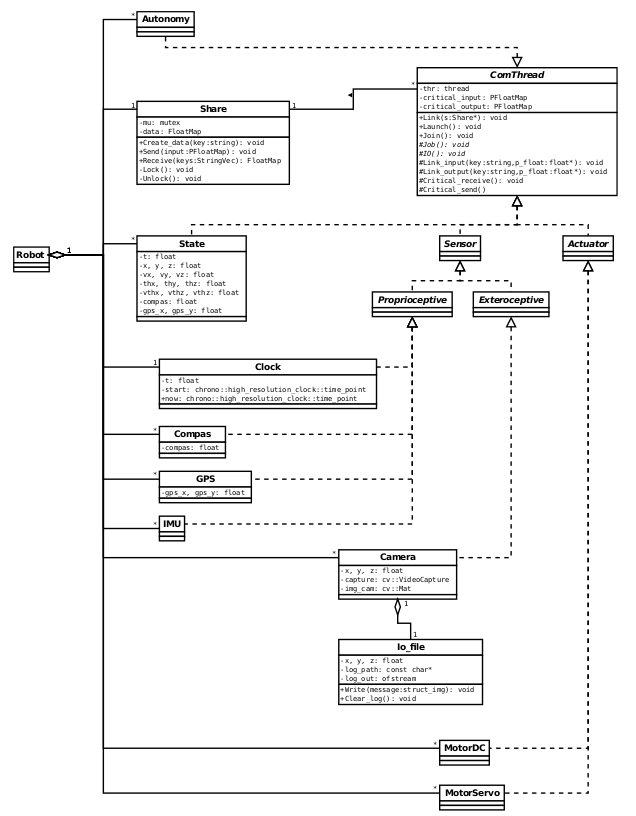
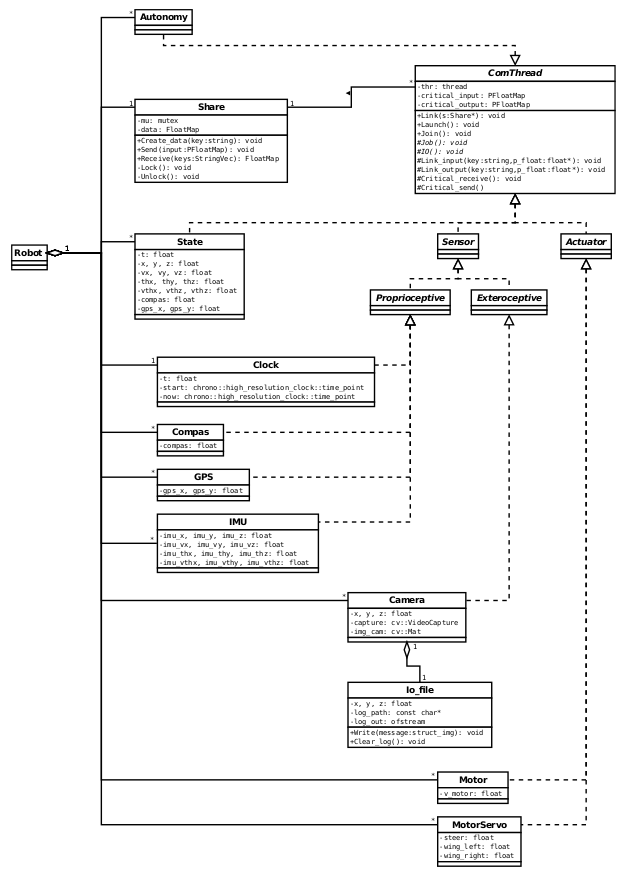
Added IMU, motor and servo

Changed region(s): [[0.0, 0.0, 1.0, 1.0]]

diff --git a/src/Imu.cpp b/src/Imu.cpp
@@ -3,11 +3,22 @@
 using namespace std;
 
 Imu::Imu() : Proprioceptive(){
+	imu_x = 0.;		imu_y = 0.;		imu_z = 0.;
+	imu_vx = 0.;	imu_vy = 0.;	imu_vz = 0.;
+	imu_thx = 0.;	imu_thy = 0.;	imu_thz = 0.;
+	imu_vthx = 0.;	imu_vthy = 0.;	imu_vthz = 0.;
+}
 
+void Imu::IO(){
+	Link_output("imu_x", &imu_x);		Link_output("imu_y", &imu_y);		Link_output("imu_z", &imu_z);
+	Link_output("imu_vx", &imu_vx);		Link_output("imu_vy", &imu_vy);		Link_output("imu_vz", &imu_vz);
+	Link_output("imu_thx", &imu_thx);	Link_output("imu_thy", &imu_thy);	Link_output("imu_thz", &imu_thz);
+	Link_output("imu_vthx", &imu_vthx);	Link_output("imu_vthy", &imu_vthy);	Link_output("imu_vthz", &imu_vthz);	
 }
 
 void Imu::Job(){
-	for(int i = 0; i < 42; i++){
+	while(true){
 		usleep(100000);
+		Critical_send();
 	}
 }

diff --git a/src/State.cpp b/src/State.cpp
@@ -14,6 +14,12 @@ void State::IO(){
 	Link_output("vx", &vx);		Link_output("vy", &vy);		Link_output("vz", &vz);
 	Link_output("thx", &thx);	Link_output("thy", &thy);	Link_output("thz", &thz);
 	Link_output("vthx", &vthx);	Link_output("vthy", &vthy);	Link_output("vthz", &vthz);
+
+	Link_input("imu_x", &imu_x);		Link_input("imu_y", &imu_y);		Link_input("imu_z", &imu_z);
+	Link_input("imu_vx", &imu_vx);		Link_input("imu_vy", &imu_vy);		Link_input("imu_vz", &imu_vz);
+	Link_input("imu_thx", &imu_thx);	Link_input("imu_thy", &imu_thy);	Link_input("imu_thz", &imu_thz);
+	Link_input("imu_vthx", &imu_vthx);	Link_input("imu_vthy", &imu_vthy);	Link_input("imu_vthz", &imu_vthz);	
+
 	Link_input("t", &t);
 	Link_input("compas", &compas);
 	Link_input("gps_x", &gps_x);

diff --git a/src/Robot.cpp b/src/Robot.cpp
@@ -9,18 +9,18 @@ Robot::Robot(){
 	clock.Link(&share);
 	compas.Link(&share);
 	gps.Link(&share);
-//	imu.Link(&share);
-//	motor.Link(&share);
-//	servo.Link(&share);
+	imu.Link(&share);
+	motor.Link(&share);
+	servo.Link(&share);
 
 	state.Launch();
 	camera.Launch();
 	clock.Launch();
 	compas.Launch();
 	gps.Launch();
-//	imu.Launch();
-//	motor.Launch();
-//	servo.Launch();
+	imu.Launch();
+	motor.Launch();
+	servo.Launch();
 
 	usleep(5000000);
 
@@ -29,7 +29,7 @@ Robot::Robot(){
 	clock.Join();
 	compas.Join();
 	gps.Join();
-//	imu.Join();
-//	motor.Join();
-//	servo.Join();
+	imu.Join();
+	motor.Join();
+	servo.Join();
 }

diff --git a/src/Robot.h b/src/Robot.h
@@ -16,9 +16,9 @@
 #include "Clock.h"
 #include "Compas.h"
 #include "Gps.h"
-//#include "Imu.h"
-//#include "Motor.h"
-//#include "Servo.h"
+#include "Imu.h"
+#include "Motor.h"
+#include "Servo.h"
 #include "Share.h"
 #include "State.h"
 
@@ -36,9 +36,9 @@ private:
 	Clock clock;
 	Compas compas;
 	Gps gps;
-//	Imu imu;
-//	Motor motor;
-//	Servo servo;
+	Imu imu;
+	Motor motor;
+	Servo servo;
 
 };
 

diff --git a/src/Servo.cpp b/src/Servo.cpp
@@ -3,9 +3,20 @@
 using namespace std;
 
 Servo::Servo() : Actuator(){
+	steer = 0.;
+	wing_left = 0.;
+	wing_right = 0.;
+}
 
+void Servo::IO(){
+	Link_input("steer", &steer);
+	Link_input("wing_left", &wing_left);
+	Link_input("wing_right", &wing_right);
 }
 
 void Servo::Job(){
-
+	while(true){
+		usleep(1000000);
+		Critical_receive();
+	}
 }

diff --git a/src/Imu.h b/src/Imu.h
@@ -1,6 +1,6 @@
 /*
  * @(#)		Imu.h
- * @version	1.0
+ * @version	1.3
  * @autor	C. Rouvière
  */
 
@@ -22,6 +22,12 @@ public:
 private:
 
 	void Job();
+	void IO();
+
+	float imu_x,	imu_y,		imu_z;
+	float imu_vx,	imu_vy,		imu_vz;
+	float imu_thx,	imu_thy,	imu_thz;
+	float imu_vthx,	imu_vthy,	imu_vthz;
 
 };
 

diff --git a/src/Servo.h b/src/Servo.h
@@ -1,11 +1,11 @@
 /*
  * @(#)		Servo.h
- * @version	1.0
+ * @version	1.3
  * @autor	C. Rouvière
  */
 
 /**
- * Motor control
+ * Servo control (steering and wings)
  */
 
 #ifndef SERVO
@@ -22,6 +22,10 @@ public:
 private:
 
 	void Job();
+	void IO();
+
+	float steer;
+	float wing_left, wing_right;
 
 };
 

diff --git a/src/State.h b/src/State.h
@@ -26,6 +26,12 @@ private:
 	float	vx,		vy,		vz;
 	float	thx,	thy,	thz;
 	float	vthx,	vthy,	vthz;
+	
+	float	imu_x,		imu_y,		imu_z;
+	float	imu_vx,		imu_vy,		imu_vz;
+	float	imu_thx,	imu_thy,	imu_thz;
+	float	imu_vthx,	imu_vthy,	imu_vthz;
+
 	float	compas;
 	float	gps_x,	gps_y;
 

diff --git a/src/Motor.cpp b/src/Motor.cpp
@@ -3,9 +3,16 @@
 using namespace std;
 
 Motor::Motor() : Actuator(){
+	v_motor = 0.;
+}
 
+void Motor::IO(){
+	Link_input("v_motor", &v_motor);
 }
 
 void Motor::Job(){
-
+	while(true){
+		usleep(1000000);
+		Critical_receive();
+	}
 }

diff --git a/src/Motor.h b/src/Motor.h
@@ -1,6 +1,6 @@
 /*
  * @(#)		Motor.h
- * @version	1.0
+ * @version	1.3
  * @autor	C. Rouvière
  */
 
@@ -22,6 +22,9 @@ public:
 private:
 
 	void Job();
+	void IO();
+
+	float v_motor;
 
 };
 
